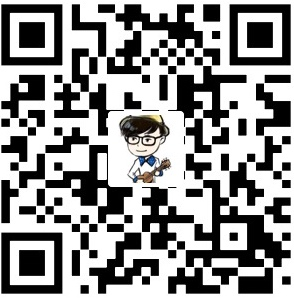
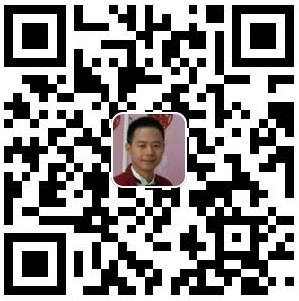
Site updated: 2020-04-11 14:37:27

diff --git a/2020/03/29/My-New-Post/index.html b/2020/03/29/My-New-Post/index.html
@@ -72,7 +72,7 @@
         
     
         
-        <a title="github" href="https://github.com/yelog" target="_blank">
+        <a title="github" href="https://github.com/ancjf" target="_blank">
             
                 <svg class="iconfont-svg" aria-hidden="true">
                     <use xlink:href="#icon-github"></use>
@@ -160,7 +160,7 @@
         
     
         
-        <a title="email" href="mailto:jaytp@qq.com" target="_blank">
+        <a title="email" href="mailto:ancjf@163.com" target="_blank">
             
                 <svg class="iconfont-svg" aria-hidden="true">
                     <use xlink:href="#icon-email"></use>
@@ -170,7 +170,7 @@
         
     
         
-        <a title="qq" href="http://wpa.qq.com/msgrd?v=3&uin=872336115&site=qq&menu=yes" target="_blank">
+        <a title="qq" href="http://wpa.qq.com/msgrd?v=3&uin=156715133&site=qq&menu=yes" target="_blank">
             
                 <svg class="iconfont-svg" aria-hidden="true">
                     <use xlink:href="#icon-qq"></use>

diff --git a/2020/03/29/hello-world/index.html b/2020/03/29/hello-world/index.html
@@ -72,7 +72,7 @@
         
     
         
-        <a title="github" href="https://github.com/yelog" target="_blank">
+        <a title="github" href="https://github.com/ancjf" target="_blank">
             
                 <svg class="iconfont-svg" aria-hidden="true">
                     <use xlink:href="#icon-github"></use>
@@ -160,7 +160,7 @@
         
     
         
-        <a title="email" href="mailto:jaytp@qq.com" target="_blank">
+        <a title="email" href="mailto:ancjf@163.com" target="_blank">
             
                 <svg class="iconfont-svg" aria-hidden="true">
                     <use xlink:href="#icon-email"></use>
@@ -170,7 +170,7 @@
         
     
         
-        <a title="qq" href="http://wpa.qq.com/msgrd?v=3&uin=872336115&site=qq&menu=yes" target="_blank">
+        <a title="qq" href="http://wpa.qq.com/msgrd?v=3&uin=156715133&site=qq&menu=yes" target="_blank">
             
                 <svg class="iconfont-svg" aria-hidden="true">
                     <use xlink:href="#icon-qq"></use>

diff --git a/2020/03/29/以太坊/index.html b/2020/03/29/以太坊/index.html
@@ -72,7 +72,7 @@
         
     
         
-        <a title="github" href="https://github.com/yelog" target="_blank">
+        <a title="github" href="https://github.com/ancjf" target="_blank">
             
                 <svg class="iconfont-svg" aria-hidden="true">
                     <use xlink:href="#icon-github"></use>
@@ -160,7 +160,7 @@
         
     
         
-        <a title="email" href="mailto:jaytp@qq.com" target="_blank">
+        <a title="email" href="mailto:ancjf@163.com" target="_blank">
             
                 <svg class="iconfont-svg" aria-hidden="true">
                     <use xlink:href="#icon-email"></use>
@@ -170,7 +170,7 @@
         
     
         
-        <a title="qq" href="http://wpa.qq.com/msgrd?v=3&uin=872336115&site=qq&menu=yes" target="_blank">
+        <a title="qq" href="http://wpa.qq.com/msgrd?v=3&uin=156715133&site=qq&menu=yes" target="_blank">
             
                 <svg class="iconfont-svg" aria-hidden="true">
                     <use xlink:href="#icon-qq"></use>

diff --git a/archives/2020/03/index.html b/archives/2020/03/index.html
@@ -72,7 +72,7 @@
         
     
         
-        <a title="github" href="https://github.com/yelog" target="_blank">
+        <a title="github" href="https://github.com/ancjf" target="_blank">
             
                 <svg class="iconfont-svg" aria-hidden="true">
                     <use xlink:href="#icon-github"></use>
@@ -160,7 +160,7 @@
         
     
         
-        <a title="email" href="mailto:jaytp@qq.com" target="_blank">
+        <a title="email" href="mailto:ancjf@163.com" target="_blank">
             
                 <svg class="iconfont-svg" aria-hidden="true">
                     <use xlink:href="#icon-email"></use>
@@ -170,7 +170,7 @@
         
     
         
-        <a title="qq" href="http://wpa.qq.com/msgrd?v=3&uin=872336115&site=qq&menu=yes" target="_blank">
+        <a title="qq" href="http://wpa.qq.com/msgrd?v=3&uin=156715133&site=qq&menu=yes" target="_blank">
             
                 <svg class="iconfont-svg" aria-hidden="true">
                     <use xlink:href="#icon-qq"></use>

diff --git a/archives/2020/index.html b/archives/2020/index.html
@@ -72,7 +72,7 @@
         
     
         
-        <a title="github" href="https://github.com/yelog" target="_blank">
+        <a title="github" href="https://github.com/ancjf" target="_blank">
             
                 <svg class="iconfont-svg" aria-hidden="true">
                     <use xlink:href="#icon-github"></use>
@@ -160,7 +160,7 @@
         
     
         
-        <a title="email" href="mailto:jaytp@qq.com" target="_blank">
+        <a title="email" href="mailto:ancjf@163.com" target="_blank">
             
                 <svg class="iconfont-svg" aria-hidden="true">
                     <use xlink:href="#icon-email"></use>
@@ -170,7 +170,7 @@
         
     
         
-        <a title="qq" href="http://wpa.qq.com/msgrd?v=3&uin=872336115&site=qq&menu=yes" target="_blank">
+        <a title="qq" href="http://wpa.qq.com/msgrd?v=3&uin=156715133&site=qq&menu=yes" target="_blank">
             
                 <svg class="iconfont-svg" aria-hidden="true">
                     <use xlink:href="#icon-qq"></use>

diff --git a/archives/index.html b/archives/index.html
@@ -72,7 +72,7 @@
         
     
         
-        <a title="github" href="https://github.com/yelog" target="_blank">
+        <a title="github" href="https://github.com/ancjf" target="_blank">
             
                 <svg class="iconfont-svg" aria-hidden="true">
                     <use xlink:href="#icon-github"></use>
@@ -160,7 +160,7 @@
         
     
         
-        <a title="email" href="mailto:jaytp@qq.com" target="_blank">
+        <a title="email" href="mailto:ancjf@163.com" target="_blank">
             
                 <svg class="iconfont-svg" aria-hidden="true">
                     <use xlink:href="#icon-email"></use>
@@ -170,7 +170,7 @@
         
     
         
-        <a title="qq" href="http://wpa.qq.com/msgrd?v=3&uin=872336115&site=qq&menu=yes" target="_blank">
+        <a title="qq" href="http://wpa.qq.com/msgrd?v=3&uin=156715133&site=qq&menu=yes" target="_blank">
             
                 <svg class="iconfont-svg" aria-hidden="true">
                     <use xlink:href="#icon-qq"></use>

diff --git a/categories/linux/index.html b/categories/linux/index.html
@@ -72,7 +72,7 @@
         
     
         
-        <a title="github" href="https://github.com/yelog" target="_blank">
+        <a title="github" href="https://github.com/ancjf" target="_blank">
             
                 <svg class="iconfont-svg" aria-hidden="true">
                     <use xlink:href="#icon-github"></use>
@@ -160,7 +160,7 @@
         
     
         
-        <a title="email" href="mailto:jaytp@qq.com" target="_blank">
+        <a title="email" href="mailto:ancjf@163.com" target="_blank">
             
                 <svg class="iconfont-svg" aria-hidden="true">
                     <use xlink:href="#icon-email"></use>
@@ -170,7 +170,7 @@
         
     
         
-        <a title="qq" href="http://wpa.qq.com/msgrd?v=3&uin=872336115&site=qq&menu=yes" target="_blank">
+        <a title="qq" href="http://wpa.qq.com/msgrd?v=3&uin=156715133&site=qq&menu=yes" target="_blank">
             
                 <svg class="iconfont-svg" aria-hidden="true">
                     <use xlink:href="#icon-qq"></use>

diff --git a/categories/区块链/index.html b/categories/区块链/index.html
@@ -72,7 +72,7 @@
         
     
         
-        <a title="github" href="https://github.com/yelog" target="_blank">
+        <a title="github" href="https://github.com/ancjf" target="_blank">
             
                 <svg class="iconfont-svg" aria-hidden="true">
                     <use xlink:href="#icon-github"></use>
@@ -160,7 +160,7 @@
         
     
         
-        <a title="email" href="mailto:jaytp@qq.com" target="_blank">
+        <a title="email" href="mailto:ancjf@163.com" target="_blank">
             
                 <svg class="iconfont-svg" aria-hidden="true">
                     <use xlink:href="#icon-email"></use>
@@ -170,7 +170,7 @@
         
     
         
-        <a title="qq" href="http://wpa.qq.com/msgrd?v=3&uin=872336115&site=qq&menu=yes" target="_blank">
+        <a title="qq" href="http://wpa.qq.com/msgrd?v=3&uin=156715133&site=qq&menu=yes" target="_blank">
             
                 <svg class="iconfont-svg" aria-hidden="true">
                     <use xlink:href="#icon-qq"></use>

diff --git a/index.html b/index.html
@@ -72,7 +72,7 @@
         
     
         
-        <a title="github" href="https://github.com/yelog" target="_blank">
+        <a title="github" href="https://github.com/ancjf" target="_blank">
             
                 <svg class="iconfont-svg" aria-hidden="true">
                     <use xlink:href="#icon-github"></use>
@@ -160,7 +160,7 @@
         
     
         
-        <a title="email" href="mailto:jaytp@qq.com" target="_blank">
+        <a title="email" href="mailto:ancjf@163.com" target="_blank">
             
                 <svg class="iconfont-svg" aria-hidden="true">
                     <use xlink:href="#icon-email"></use>
@@ -170,7 +170,7 @@
         
     
         
-        <a title="qq" href="http://wpa.qq.com/msgrd?v=3&uin=872336115&site=qq&menu=yes" target="_blank">
+        <a title="qq" href="http://wpa.qq.com/msgrd?v=3&uin=156715133&site=qq&menu=yes" target="_blank">
             
                 <svg class="iconfont-svg" aria-hidden="true">
                     <use xlink:href="#icon-qq"></use>

diff --git a/tags/123/index.html b/tags/123/index.html
@@ -72,7 +72,7 @@
         
     
         
-        <a title="github" href="https://github.com/yelog" target="_blank">
+        <a title="github" href="https://github.com/ancjf" target="_blank">
             
                 <svg class="iconfont-svg" aria-hidden="true">
                     <use xlink:href="#icon-github"></use>
@@ -160,7 +160,7 @@
         
     
         
-        <a title="email" href="mailto:jaytp@qq.com" target="_blank">
+        <a title="email" href="mailto:ancjf@163.com" target="_blank">
             
                 <svg class="iconfont-svg" aria-hidden="true">
                     <use xlink:href="#icon-email"></use>
@@ -170,7 +170,7 @@
         
     
         
-        <a title="qq" href="http://wpa.qq.com/msgrd?v=3&uin=872336115&site=qq&menu=yes" target="_blank">
+        <a title="qq" href="http://wpa.qq.com/msgrd?v=3&uin=156715133&site=qq&menu=yes" target="_blank">
             
                 <svg class="iconfont-svg" aria-hidden="true">
                     <use xlink:href="#icon-qq"></use>

diff --git a/tags/125/index.html b/tags/125/index.html
@@ -72,7 +72,7 @@
         
     
         
-        <a title="github" href="https://github.com/yelog" target="_blank">
+        <a title="github" href="https://github.com/ancjf" target="_blank">
             
                 <svg class="iconfont-svg" aria-hidden="true">
                     <use xlink:href="#icon-github"></use>
@@ -160,7 +160,7 @@
         
     
         
-        <a title="email" href="mailto:jaytp@qq.com" target="_blank">
+        <a title="email" href="mailto:ancjf@163.com" target="_blank">
             
                 <svg class="iconfont-svg" aria-hidden="true">
                     <use xlink:href="#icon-email"></use>
@@ -170,7 +170,7 @@
         
     
         
-        <a title="qq" href="http://wpa.qq.com/msgrd?v=3&uin=872336115&site=qq&menu=yes" target="_blank">
+        <a title="qq" href="http://wpa.qq.com/msgrd?v=3&uin=156715133&site=qq&menu=yes" target="_blank">
             
                 <svg class="iconfont-svg" aria-hidden="true">
                     <use xlink:href="#icon-qq"></use>
